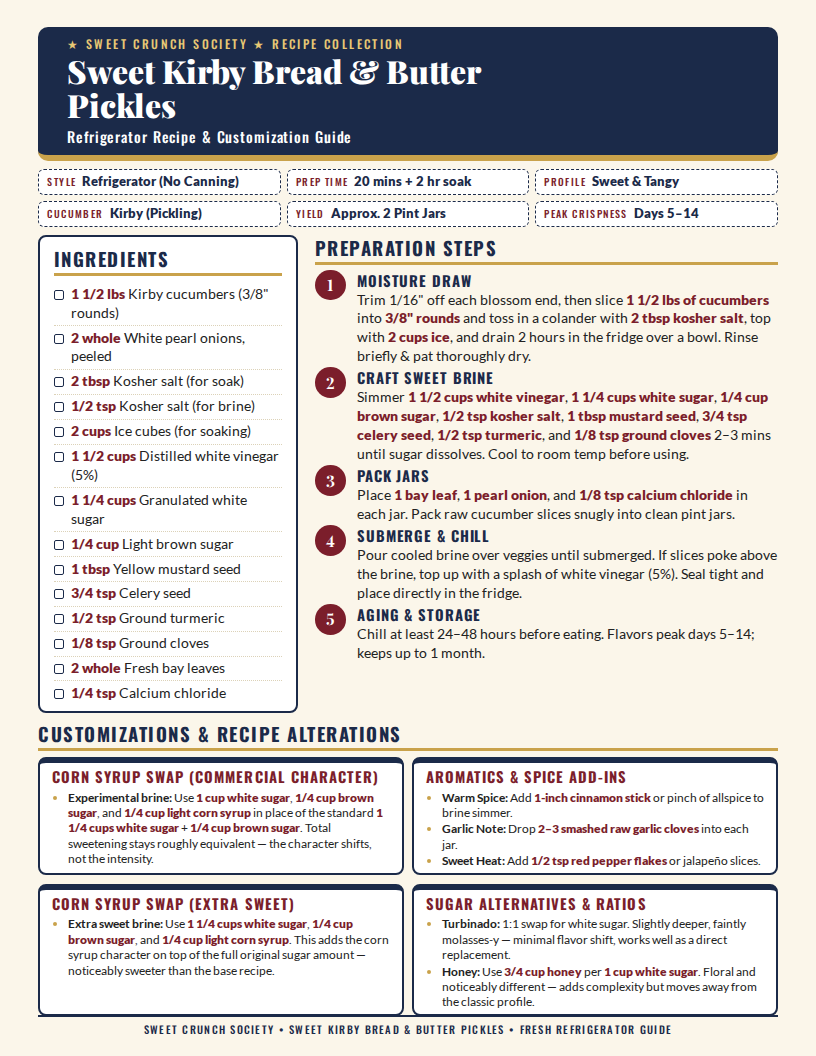
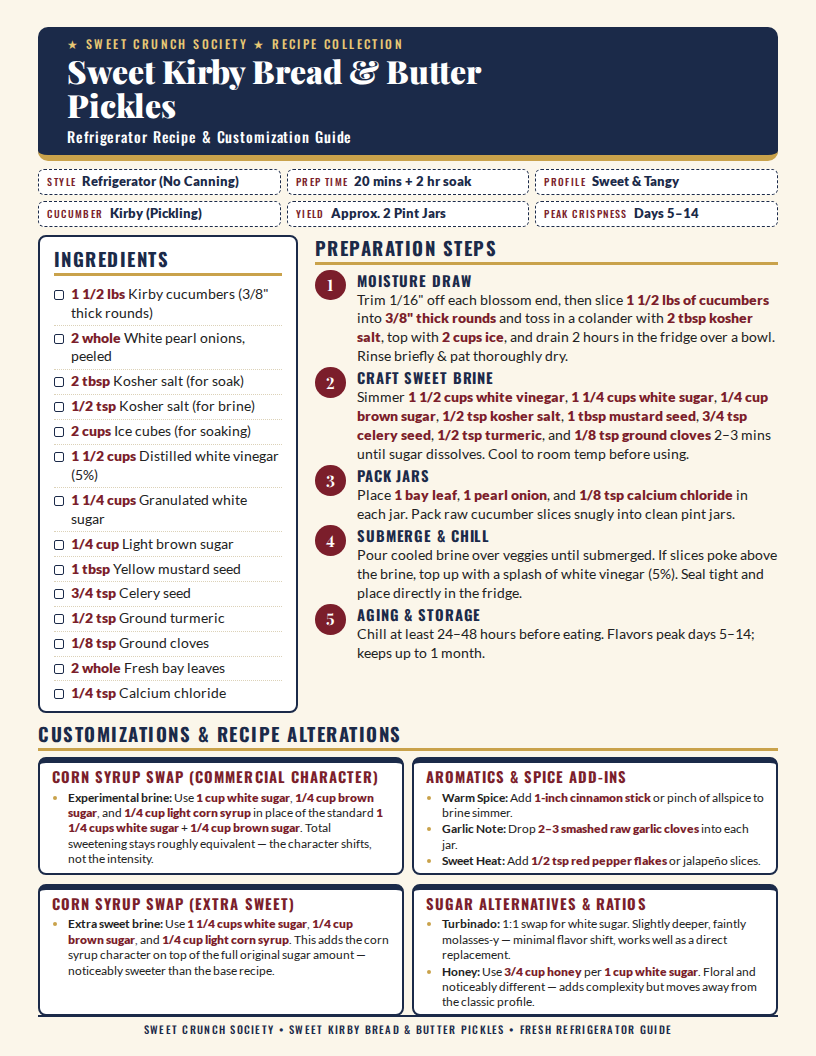
docs: clarify cut size as "3/8" thick rounds"
"3/8" rounds" could be read as a diameter. Say "thick" so cooks know the
measurement is slice thickness.

- index.html: Moisture Draw step and ingredients list
- index-zesty.html: Moisture Draw step, ingredients list (was "3/8" cut"),
  and the Coins card in Texture & Cut Options
- Regenerated docs/preview.png and docs/preview-zesty.png; both sheets
  still fit the letter page.

Changed region(s): [[0.4289, 0.2812, 0.9498, 0.3438], [0.0919, 0.2812, 0.1838, 0.3125]]

diff --git a/index-zesty.html b/index-zesty.html
@@ -141,7 +141,7 @@
         <div class="ingredients">
           <h2 class="sec" id="ing">Ingredients</h2>
           <ul>
-            <li><span class="box"></span><span><b>1 1/2 lbs</b> Kirby cucumbers (3/8" cut)</span></li>
+            <li><span class="box"></span><span><b>1 1/2 lbs</b> Kirby cucumbers (3/8" thick rounds)</span></li>
             <li><span class="box"></span><span><b>2 tbsp</b> Kosher salt (for soak)</span></li>
             <li><span class="box"></span><span><b>2 cups</b> Ice cubes (for soaking)</span></li>
             <li><span class="box"></span><span><b>1 1/2 cups</b> White vinegar (5%)</span></li>
@@ -162,7 +162,7 @@
       <section aria-labelledby="prep">
         <h2 class="sec" id="prep">Preparation Steps</h2>
         <ol class="steps">
-          <li><b>Moisture Draw</b>Trim 1/16" off each blossom end, then slice <strong>1 1/2 lbs of cucumbers</strong> into <strong>3/8" rounds</strong> and toss in a colander with <strong>2 tbsp kosher salt</strong>, top with <strong>2 cups ice</strong>, and drain 2 hours in the fridge over a bowl. Rinse briefly &amp; pat thoroughly dry.</li>
+          <li><b>Moisture Draw</b>Trim 1/16" off each blossom end, then slice <strong>1 1/2 lbs of cucumbers</strong> into <strong>3/8" thick rounds</strong> and toss in a colander with <strong>2 tbsp kosher salt</strong>, top with <strong>2 cups ice</strong>, and drain 2 hours in the fridge over a bowl. Rinse briefly &amp; pat thoroughly dry.</li>
           <li><b>Craft Garlic Brine</b>Combine <strong>1 1/2 cups white vinegar</strong>, <strong>1 cup water</strong>, <strong>1 tbsp kosher salt</strong>, <strong>1 tsp sugar</strong>, <strong>1 tsp peppercorns</strong>, <strong>1/2 tsp mustard seed</strong>, and <strong>1/4 tsp coriander seed</strong>; simmer 2–3 mins. Add <strong>6 smashed garlic cloves</strong>; simmer 1 more minute. Cool to room temp before using.</li>
           <li><b>Pack Jars</b>Place <strong>1 bay leaf</strong>, <strong>3 garlic cloves</strong> (from brine), <strong>2 dill sprigs</strong>, and <strong>1/8 tsp calcium chloride</strong> in each jar. Pack cucumber slices snugly into clean pint jars.</li>
           <li><b>Submerge &amp; Chill</b>Pour cooled brine over veggies until submerged. If slices poke above the brine, top up with a splash of white vinegar (5%). Seal tight and place directly in the fridge.</li>
@@ -192,7 +192,7 @@
           <h3>Texture &amp; Cut Options</h3>
           <ul>
             <li><b>Spears:</b> Quarter cucumbers lengthwise for classic deli-style garlic spears.</li>
-            <li><b>Coins:</b> Keep <strong>3/8" rounds</strong> as written for snacking and charcuterie boards.</li>
+            <li><b>Coins:</b> Keep <strong>3/8" thick rounds</strong> as written for snacking and charcuterie boards.</li>
             <li><b>Thick-Cut:</b> Slice at <strong>1/2-inch</strong> thickness for extra crunch and chew.</li>
           </ul>
         </div>

diff --git a/index.html b/index.html
@@ -141,7 +141,7 @@
         <div class="ingredients">
           <h2 class="sec" id="ing">Ingredients</h2>
           <ul>
-            <li><span class="box"></span><span><b>1 1/2 lbs</b> Kirby cucumbers (3/8" rounds)</span></li>
+            <li><span class="box"></span><span><b>1 1/2 lbs</b> Kirby cucumbers (3/8" thick rounds)</span></li>
             <li><span class="box"></span><span><b>2 whole</b> White pearl onions, peeled</span></li>
             <li><span class="box"></span><span><b>2 tbsp</b> Kosher salt (for soak)</span></li>
             <li><span class="box"></span><span><b>1/2 tsp</b> Kosher salt (for brine)</span></li>
@@ -162,7 +162,7 @@
       <section aria-labelledby="prep">
         <h2 class="sec" id="prep">Preparation Steps</h2>
         <ol class="steps">
-          <li><b>Moisture Draw</b>Trim 1/16" off each blossom end, then slice <strong>1 1/2 lbs of cucumbers</strong> into <strong>3/8" rounds</strong> and toss in a colander with <strong>2 tbsp kosher salt</strong>, top with <strong>2 cups ice</strong>, and drain 2 hours in the fridge over a bowl. Rinse briefly &amp; pat thoroughly dry.</li>
+          <li><b>Moisture Draw</b>Trim 1/16" off each blossom end, then slice <strong>1 1/2 lbs of cucumbers</strong> into <strong>3/8" thick rounds</strong> and toss in a colander with <strong>2 tbsp kosher salt</strong>, top with <strong>2 cups ice</strong>, and drain 2 hours in the fridge over a bowl. Rinse briefly &amp; pat thoroughly dry.</li>
           <li><b>Craft Sweet Brine</b>Simmer <strong>1 1/2 cups white vinegar</strong>, <strong>1 1/4 cups white sugar</strong>, <strong>1/4 cup brown sugar</strong>, <strong>1/2 tsp kosher salt</strong>, <strong>1 tbsp mustard seed</strong>, <strong>3/4 tsp celery seed</strong>, <strong>1/2 tsp turmeric</strong>, and <strong>1/8 tsp ground cloves</strong> 2–3 mins until sugar dissolves. Cool to room temp before using.</li>
           <li><b>Pack Jars</b>Place <strong>1 bay leaf</strong>, <strong>1 pearl onion</strong>, and <strong>1/8 tsp calcium chloride</strong> in each jar. Pack raw cucumber slices snugly into clean pint jars.</li>
           <li><b>Submerge &amp; Chill</b>Pour cooled brine over veggies until submerged. If slices poke above the brine, top up with a splash of white vinegar (5%). Seal tight and place directly in the fridge.</li>
